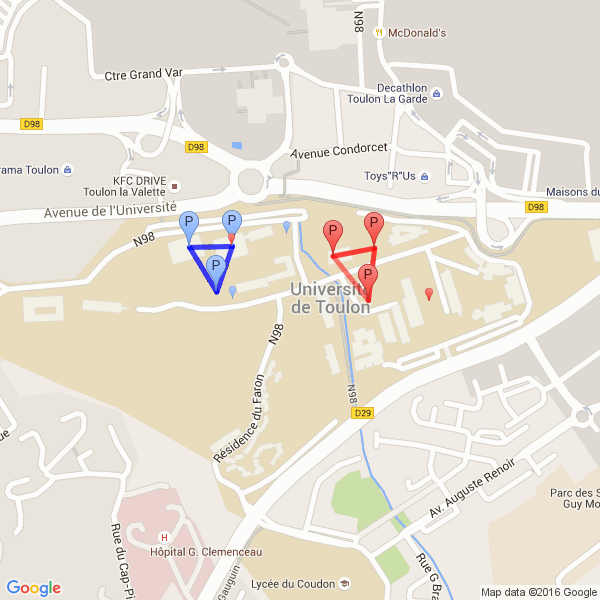
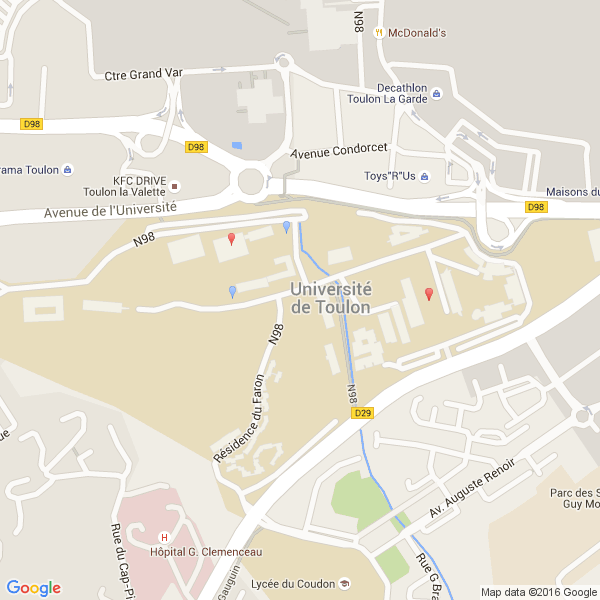
debug get rest pour afficher les portals

Changed region(s): [[0.54, 0.33, 0.66, 0.51], [0.3, 0.33, 0.42, 0.48]]

diff --git a/javaClient/src/main/java/fr/univtln/groupc/Main.java b/javaClient/src/main/java/fr/univtln/groupc/Main.java
@@ -13,7 +13,6 @@ import java.util.Objects;
 import com.fasterxml.jackson.databind.ObjectMapper;
 import com.fasterxml.jackson.databind.SerializationFeature;
 import com.sun.jersey.api.client.Client;
-import com.sun.jersey.api.client.ClientResponse;
 import com.sun.jersey.api.client.WebResource;
 import fr.univtln.groupc.entities.CPortalEntity;
 import fr.univtln.groupc.server.CServer;
@@ -27,9 +26,9 @@ https://developers.google.com/maps/documentation/static-maps/
 
 */
 
-public class App {
+public class Main {
 
-    public static void generateMap(final JFrame test, List<String> pBluePlayers, List<String> pRedPlayers, List<String> pBluePortals, List<String> pRedPortals){
+    public static void generateMap(final JFrame test, List<String> pBluePlayers, List<String> pRedPlayers, List<String> pBluePortals, List<String> pRedPortals) {
 
         try {
             String imageUrl =
@@ -40,25 +39,26 @@ public class App {
                             // taille fenêtre
                             "size=600x600&";
 
-            if (pBluePlayers!=null) {
+            if (pBluePlayers != null) {
                 // joueurs team bleu
                 for (String player : pBluePlayers) {
                     imageUrl = imageUrl + "markers=size:tiny%7Ccolor:blue%7Clabel:P%7C" + player + "&";
                 }
             }
 
-            if (pRedPlayers!=null) {
+            if (pRedPlayers != null) {
                 // joueurs team rouge
                 for (String player : pRedPlayers) {
                     imageUrl = imageUrl + "markers=size:tiny%7Ccolor:red%7Clabel:P%7C" + player + "&";
                 }
             }
 
-            if (pBluePortals!=null) {
+            if (pBluePortals != null) {
                 // portails capturés team bleu
                 for (String portal : pBluePortals) {
                     imageUrl = imageUrl + "markers=color:blue%7Clabel:P%7C" + portal + "&";
                 }
+                /*
                 imageUrl = imageUrl +
                         // On relie les portails bleu
                         "path=color:0x0000ff|weight:5|" + pBluePortals.get(0) + "|" + pBluePortals.get(1) + "&" +
@@ -66,25 +66,26 @@ public class App {
                         "path=color:0x0000ff|weight:5|" + pBluePortals.get(1) + "|" + pBluePortals.get(2) + "&" +
                         "path=color:0x0000ff|weight:5|" + pBluePortals.get(2) + "|" + pBluePortals.get(1) + "&" +
                         "path=color:0x0000ff|weight:5|" + pBluePortals.get(0) + "|" + pBluePortals.get(2) + "&" +
-                        "path=color:0x0000ff|weight:5|" + pBluePortals.get(2) + "|" + pBluePortals.get(0) + "&" ;
+                        "path=color:0x0000ff|weight:5|" + pBluePortals.get(2) + "|" + pBluePortals.get(0) + "&";
 
+
+            */
             }
-
-            if (pRedPortals!=null) {
+            if (pRedPortals != null) {
                 // portails capturés team rouge
                 for (String portal : pRedPortals) {
                     imageUrl = imageUrl + "markers=color:red%7Clabel:P%7C" + portal + "&";
                 }
+                /*
                 // On relie les portails rouge
                 imageUrl = imageUrl +
-                        "path=color:0xff0000|weight:5|"+pRedPortals.get(0)+"|"+pRedPortals.get(1)+"&"+
-                        "path=color:0xff0000|weight:5|"+pRedPortals.get(1)+"|"+pRedPortals.get(0)+"&"+
-                        "path=color:0xff0000|weight:5|"+pRedPortals.get(1)+"|"+pRedPortals.get(2)+"&"+
-                        "path=color:0xff0000|weight:5|"+pRedPortals.get(2)+"|"+pRedPortals.get(1)+"&"+
-                        "path=color:0xff0000|weight:5|"+pRedPortals.get(0)+"|"+pRedPortals.get(2)+"&";
-
+                        "path=color:0xff0000|weight:5|" + pRedPortals.get(0) + "|" + pRedPortals.get(1) + "&" +
+                        "path=color:0xff0000|weight:5|" + pRedPortals.get(1) + "|" + pRedPortals.get(0) + "&" +
+                        "path=color:0xff0000|weight:5|" + pRedPortals.get(1) + "|" + pRedPortals.get(2) + "&" +
+                        "path=color:0xff0000|weight:5|" + pRedPortals.get(2) + "|" + pRedPortals.get(1) + "&" +
+                        "path=color:0xff0000|weight:5|" + pRedPortals.get(0) + "|" + pRedPortals.get(2) + "&";
+                */
             }
-
 
 
             // API Key
@@ -128,7 +129,7 @@ public class App {
                 if (JOptionPane.showConfirmDialog(test,
                         "Are you sure to close this window?", "Really Closing?",
                         JOptionPane.YES_NO_OPTION,
-                        JOptionPane.QUESTION_MESSAGE) == JOptionPane.YES_OPTION){
+                        JOptionPane.QUESTION_MESSAGE) == JOptionPane.YES_OPTION) {
                     test.dispose();
                     System.exit(0);
                 }
@@ -155,21 +156,18 @@ public class App {
             e.printStackTrace();
         }
 
+        ArrayList<String> bluePortals = new ArrayList<String>();
+        ArrayList<String> redPortals = new ArrayList<String>();
+
         System.out.println("que se passe t il?");
-        List<String> bluePlayers = new ArrayList();
+        ArrayList<String> bluePlayers = new ArrayList<String>();
         bluePlayers.add("43.136466,6.016560");
         bluePlayers.add("43.137476,6.017719");
 
-        List<String> redPlayers = new ArrayList();
+        ArrayList<String> redPlayers = new ArrayList<String>();
         redPlayers.add("43.136434,6.020808");
         redPlayers.add("43.136434,6.020777");
         redPlayers.add("43.137290,6.016552");
-
-        List<String> bluePortals = new ArrayList();
-        List<String> redPortals = new ArrayList();
-        redPortals.add("43.137136,6.018718");
-        redPortals.add("43.137261,6.019610");
-        redPortals.add("43.136444,6.019477");
 
         String redPortal;
         String bluePortal;
@@ -180,20 +178,26 @@ public class App {
             if (cPortalEntity.getTeam() != null) {
 
                 if (Objects.equals(cPortalEntity.getTeam().getColor(), "red")) {
-
                     redPortal = String.valueOf(cPortalEntity.getLat()) + "," + String.valueOf(cPortalEntity.getLong());
                     redPortals.add(redPortal);
-                    System.out.println("ok");
-                } else if (Objects.equals(cPortalEntity.getTeam().getColor(), "red")) {
+                    System.out.println(redPortal);
+                    }
+
+                else if (Objects.equals(cPortalEntity.getTeam().getColor(), "red")) {
                     bluePortal = String.valueOf(cPortalEntity.getLat()) + "," + String.valueOf(cPortalEntity.getLong());
                     bluePortals.add(bluePortal);
+                    System.out.println(bluePortal);
                 }
             }
         }
+
+        redPortals.add("43.1748,5.6045");
+        redPortals.add("43.1863,6.0021");
+        redPortals.add("43.1958,5.8932");
+
+        Main.generateMap(test, bluePlayers, redPlayers, bluePortals, redPortals);
     }
 
-/*
-        App.generateMap(test, bluePlayers, redPlayers, bluePortals, redPortals);
-*/
-    }
+
+
 }

diff --git a/javaClient/src/test/java/fr/univtln/groupc/AppTest.java b/javaClient/src/test/java/fr/univtln/groupc/AppTest.java
@@ -5,7 +5,7 @@ import junit.framework.TestCase;
 import junit.framework.TestSuite;
 
 /**
- * Unit test for simple App.
+ * Unit test for simple Main.
  */
 public class AppTest 
     extends TestCase
